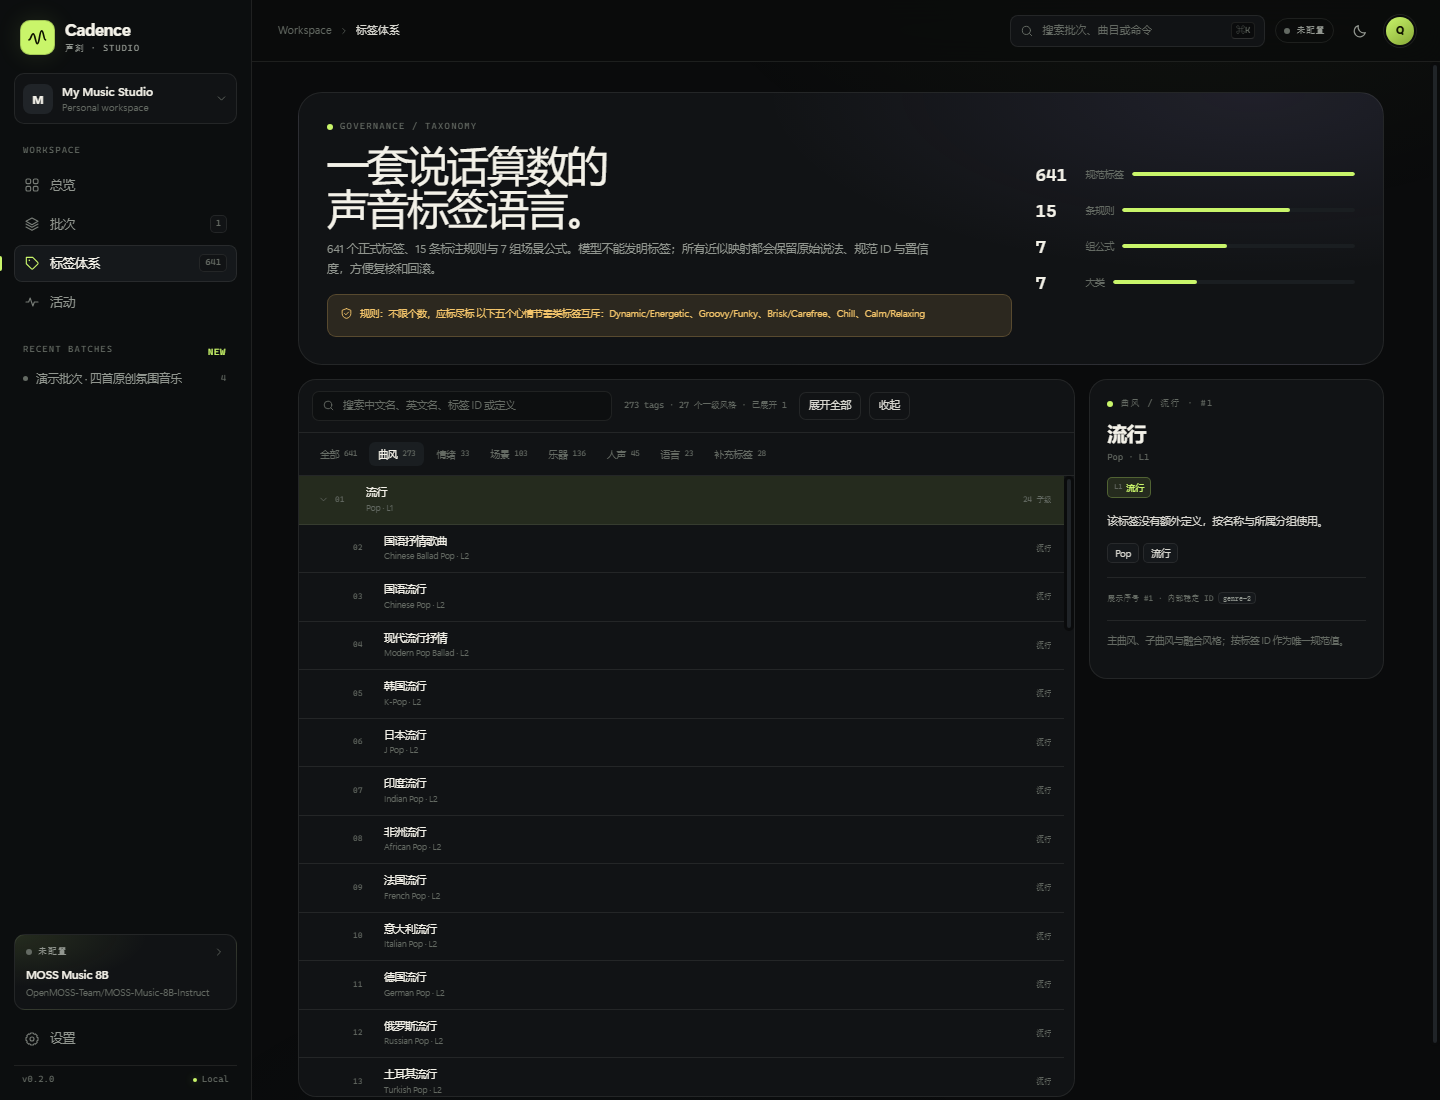
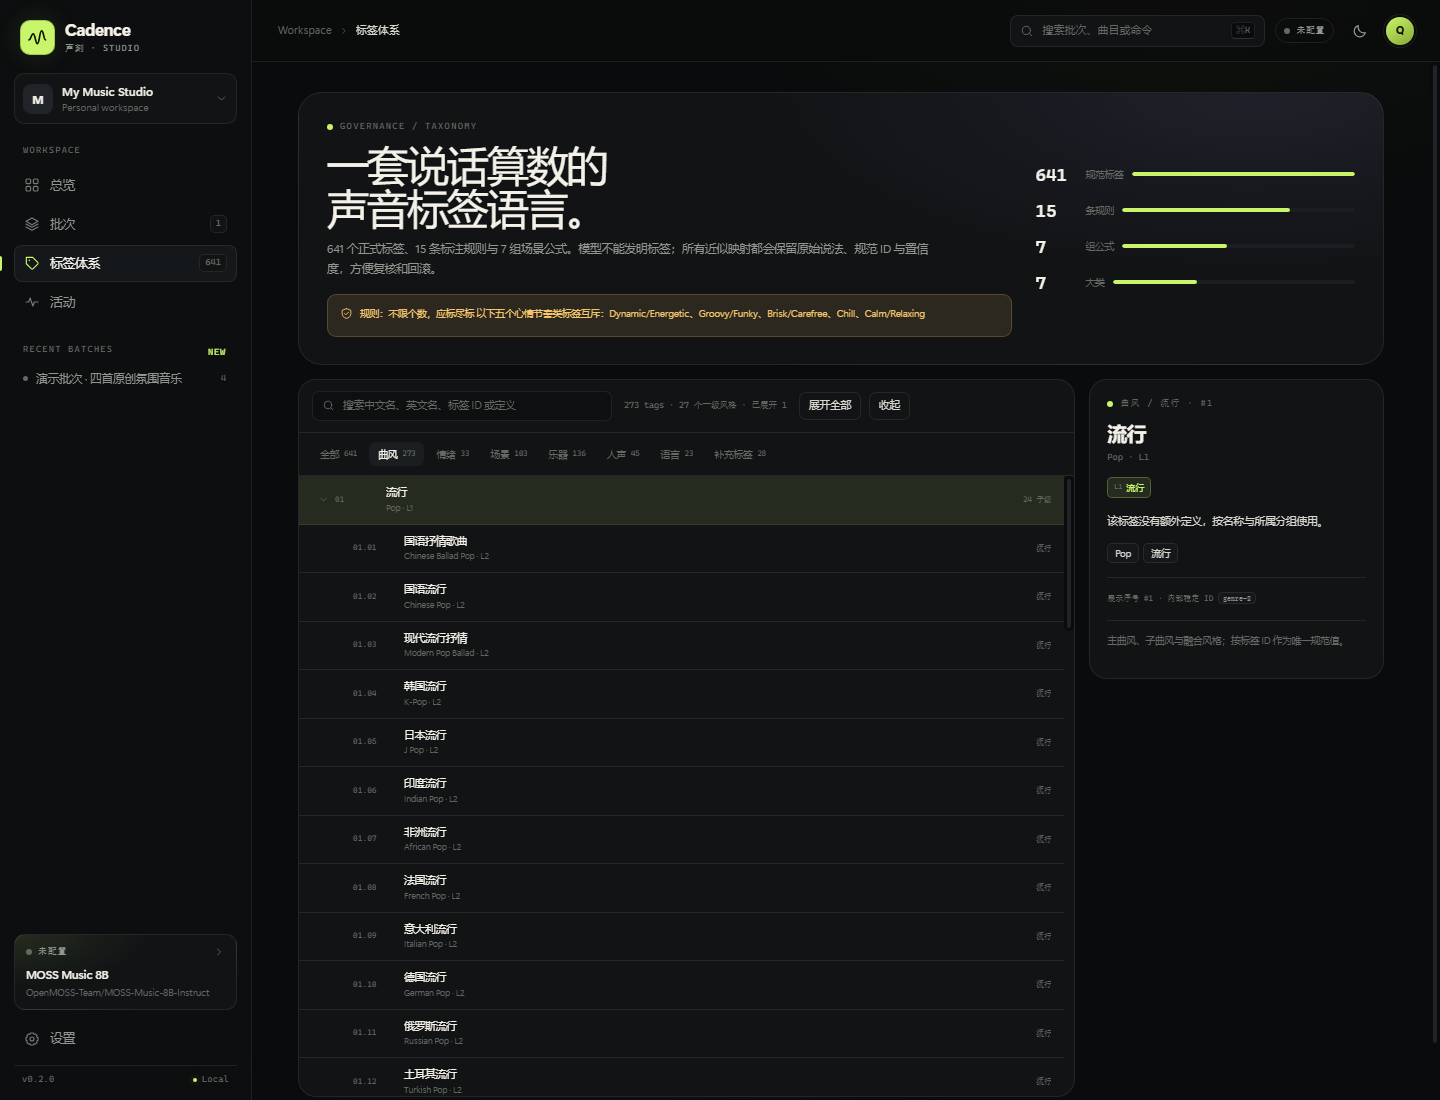
feat(taxonomy): use hierarchical 01.01 numbering in the tree

diff --git a/src/cadence_studio/web/app.js b/src/cadence_studio/web/app.js
@@ -1395,13 +1395,13 @@
     const hasChildren = children.length > 0;
     const expanded = state.tax.expanded.has(tag.id);
     const isActive = state.tax.tagId === tag.id;
-    const seq = String(tag.seq || options.index || 1).padStart(2, "0");
+    const seq = options.code || String(tag.seq || options.index || 1).padStart(2, "0");
     return `<div class="taxonomy-row ${hasChildren ? "tree-parent" : ""} ${isActive ? "active" : ""}" data-tax-id="${attr(tag.id)}" style="padding-left:${13 + depth * 18}px">
       <button class="tax-arrow ${hasChildren ? "" : "empty"} ${expanded ? "open" : ""}" ${hasChildren ? `data-tax-toggle="${attr(tag.id)}"` : ""} aria-label="${hasChildren ? "展开子风格" : ""}" aria-expanded="${expanded}">${hasChildren ? icon("chevron") : ""}</button>
       <span class="taxonomy-seq">${seq}</span>
       <div class="taxonomy-name"><strong>${escapeHtml(tag.zh)}</strong><span>${escapeHtml(tag.en)}${tag.category === "Genre" ? ` · L${tag.genre_level || 1}` : ""}</span></div>
       <span class="taxonomy-group">${hasChildren ? `${children.length} 子级` : escapeHtml(tag.group || tag.category)}</span>
-    </div>${hasChildren && expanded ? children.map((child) => taxonomyRowHtml(child, { depth: depth + 1, children: (genreChildrenMap().get(child.id) || []) })).join("") : ""}`;
+    </div>${hasChildren && expanded ? children.map((child, index) => taxonomyRowHtml(child, { depth: depth + 1, code: `${seq}.${String(index + 1).padStart(2, "0")}`, children: (genreChildrenMap().get(child.id) || []) })).join("") : ""}`;
   }
 
   function renderGenreTree(tags) {
@@ -1414,7 +1414,9 @@
       list.innerHTML = `<div class="taxonomy-empty">没有匹配的标签。</div>`;
       return;
     }
-    list.innerHTML = roots.map((tag) => taxonomyRowHtml(tag, { children: children.get(tag.id) || [] })).join("");
+    list.innerHTML = roots
+      .map((tag, index) => taxonomyRowHtml(tag, { code: String(index + 1).padStart(2, "0"), children: children.get(tag.id) || [] }))
+      .join("");
   }
 
   function renderTaxonomyRows() {

diff --git a/src/cadence_studio/web/app.css b/src/cadence_studio/web/app.css
@@ -4120,7 +4120,7 @@ tr:hover .row-actions,
 
 .taxonomy-row {
   display: grid;
-  grid-template-columns: 16px 24px minmax(0, 1fr) 56px;
+  grid-template-columns: 16px 44px minmax(0, 1fr) 56px;
   gap: 7px;
   align-items: center;
   padding: 9px 13px;
